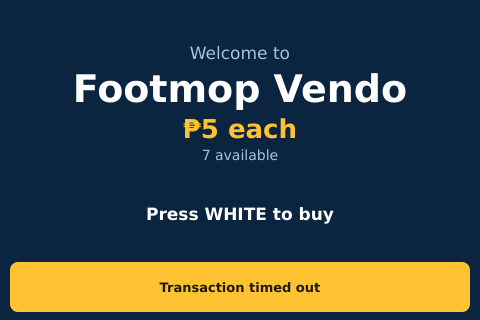
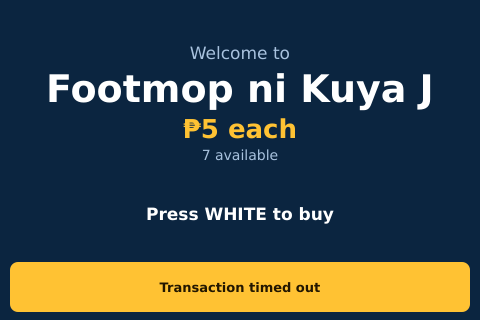
Welcome screen title: "Footmop ni Kuya J"
The big title on the welcome screen now shows the shop name from the
config (machine.name) instead of "Footmop Vendo".

Claude-Session: https://claude.ai/code/session_015ukmGBxerGga86RxMG4qdD

Changed region(s): [[0.0938, 0.2188, 0.9062, 0.3438]]

diff --git a/footmop_vendo/footmop/ui/screens.py b/footmop_vendo/footmop/ui/screens.py
@@ -188,7 +188,7 @@ class Hero:
     look alike - a vertically centred stack of:
 
         kicker   small, muted         ("Welcome to")
-        main     big, bold, white     ("Footmop Vendo")
+        main     big, bold, white     ("Footmop ni Kuya J")
         accent   bold, yellow         ("P5 each")
         sub      small, muted         ("6 available")
         cta      bold, white          ("Press WHITE to buy")
@@ -235,7 +235,7 @@ class LandingScreen(Screen):
 
     def refresh(self) -> None:
         k = self.ctx.kiosk
-        self.hero.set("Welcome to", "Footmop Vendo", f"{self.ctx.money(k.price)} each",
+        self.hero.set("Welcome to", self.ctx.cfg.machine.name, f"{self.ctx.money(k.price)} each",
                       f"{k.stock} available", "Press WHITE to buy")
 
 
